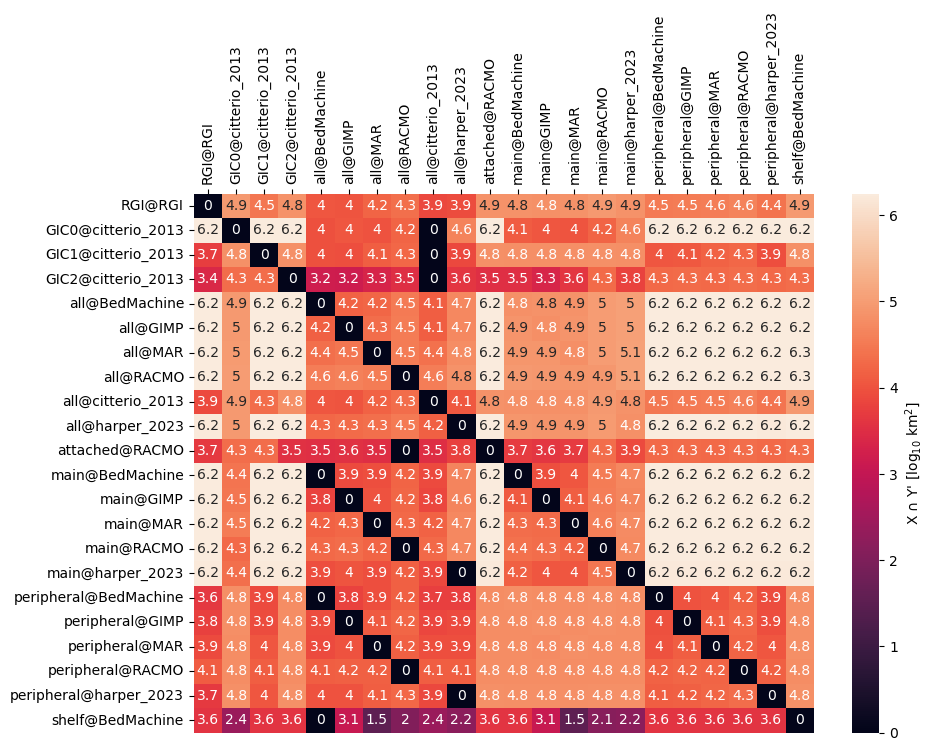
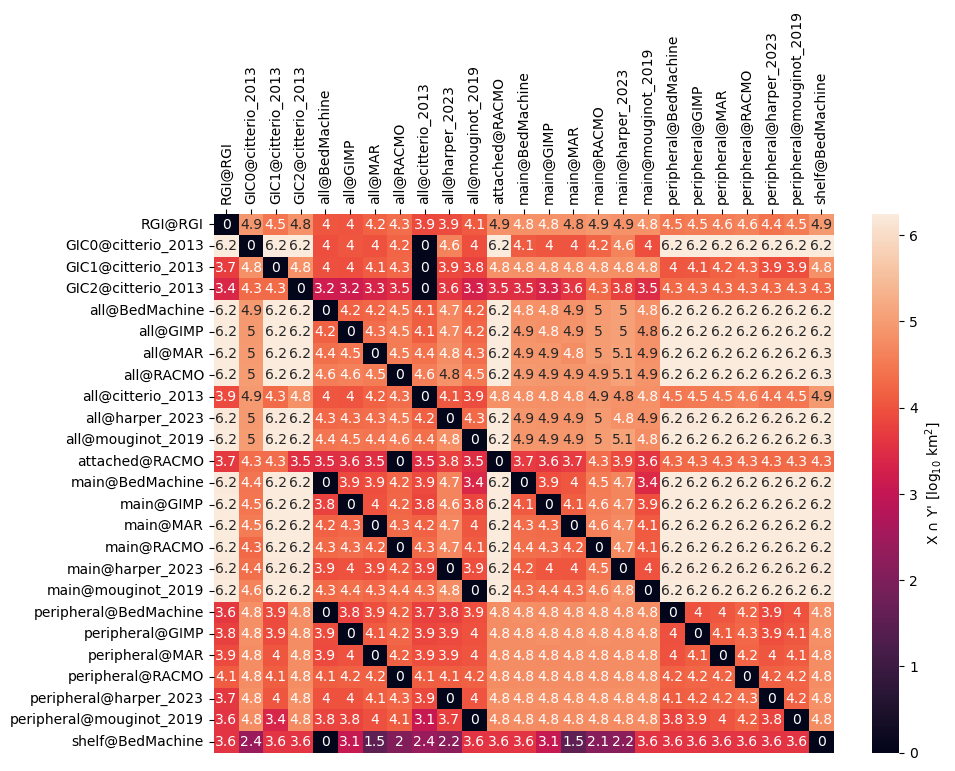
Incorporate Mouginot (2019)
Closes #58

diff --git a/D1/deliverable1.md b/D1/deliverable1.md
@@ -41,6 +41,7 @@ This list is meant to be as exhaustive as possible. If a product is missing, ple
 | BedMachine                                               | @NSIDC_BedMachine_GL_v5 | @morlighem_2017  | https://github.com/IACS-cryo/Delineation-WG/issues/27 |          |
 | PROMICE                                                  | @citterio_2022          | @citterio_2013   |                                                       |          |
 | ESA CCI                                                  |                         | @harper_2023     |                                                       |          |
+| Mouginot (a.k.a IMBIE Greenlan)                          | @mouginot_2019_data     | @mouginot_2019   |                                                       |          |
 
 ### Antarctica
 
